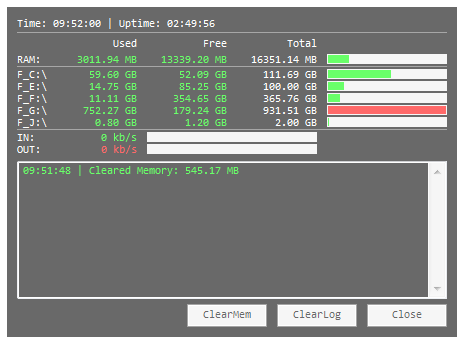
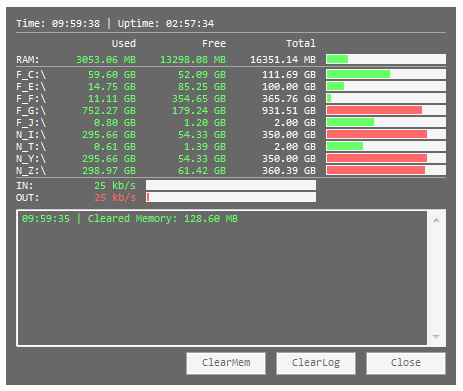
Update to v0.5.0
Update README
Update Screenshot
Update src\htopmini

Changed region(s): [[0.0302, 0.0292, 0.9676, 0.9621], [0.9676, 0.9621, 0.9978, 0.9913], [0.0, 0.9621, 0.0302, 0.9913]]

diff --git a/README.md b/README.md
@@ -14,11 +14,12 @@ Small System-Info Tool via AutoHotkey
 
 
 ## Info
-* Version: v0.3.0
+* Version: v0.5.0
 * URL: [AHK Thread](http://ahkscript.org/boards/viewtopic.php?f=6&t=254)
 
 
 ## Changelog
+* 0.5.0 | Network Drives, Tray-Menu, DisplayBrightness
 * 0.3.0 | First Release
 
 
